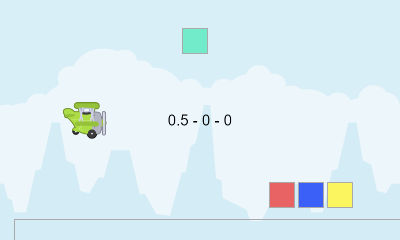
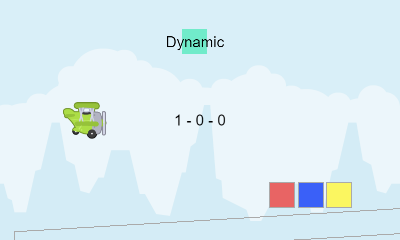
Loop v1.0

diff --git a/loop/engine/GameObject.js b/loop/engine/GameObject.js
@@ -12,7 +12,10 @@ class GameObject {
         for (let key in actor.newProperties) { this[key] = actor[key]; } // add new gameObject properties
         // add audio
         var soundOpt = { volume: actor.volume, loop: actor.loop, pan: actor.pan, start: actor.start }
-        if (actor.sound) this.audio = new Sound(actor.sound, soundOpt);
+        if (actor.sound) {
+            this.audio = new Sound(actor.sound, soundOpt);
+            if (actor.soundOn) this.audio.source.play(this.audio.id);
+        }
         // add container to stage
         this.container = engine.render.stage.addChild(new Container(actor));
         // add rigidbody to world
@@ -84,7 +87,7 @@ class GameObject {
         }
     }
 
-    update(lagOffset) { // integrate render positions !!!! REVISE
+    update(lagOffset) { // integrate render positions
         if (!this.sleeping) {
             this.x = this.x * lagOffset + this.previousState.x * (1 - lagOffset);
             this.y = this.y * lagOffset + this.previousState.y * (1 - lagOffset);
@@ -262,15 +265,54 @@ class GameObject {
     set pan(value) { this.audio.source.stereo(value) };
 
     get loop() { return this.audio.source.loop() }
-    set loop(value) { this.audio.source.loop(value) };
+    set loop(value) { this.audio.source.loop(value); };
+
+    get type() {
+        switch (true) {
+            case this.rigidbody.isDynamic(): return ("Dynamic");
+            case this.rigidbody.isKinematic(): return ("Kinematic");
+            case this.rigidbody.isStatic(): return ("Static");
+        }
+    }
+    set type(value) {
+        switch (value) {
+            case "Dynamic": this.rigidbody.setDynamic(); break;
+            case "Kinematic": this.rigidbody.setKinematic(); break;
+            case "Static": this.rigidbody.setStatic(); break;
+        }
+    }
+
+    get fixedAngle() { return this.rigidbody.isFixedRotation() }
+    set fixedAngle(value) { this.rigidbody.setFixedRotation(value) }
 
     get velocityX() { return (this.rigidbody.getLinearVelocity().x * Physics.pixelsPerMeter) };
-    set velocityX(value) { 
-        this.rigidbody.setLinearVelocity(planck.Vec2(value * Physics.metersPerPixel, this.rigidbody.getLinearVelocity().y)) 
+    set velocityX(value) {
+        this.rigidbody.setLinearVelocity(planck.Vec2(value * Physics.metersPerPixel, this.rigidbody.getLinearVelocity().y))
     };
 
     get velocityY() { return this.rigidbody.getLinearVelocity().y * Physics.metersPerPixel };
-    set velocityY(value) { 
-        this.rigidbody.setLinearVelocity(planck.Vec2(this.rigidbody.getLinearVelocity().x, value * Physics.metersPerPixel)) 
+    set velocityY(value) {
+        this.rigidbody.setLinearVelocity(planck.Vec2(this.rigidbody.getLinearVelocity().x, value * Physics.metersPerPixel))
     };
+
+    get angularVelocity() { return this.rigidbody.getAngularVelocity() };
+    set angularVelocity(value) {
+        this.rigidbody.setAngularVelocity(value);
+    };
+
+    get density() { return this.rigidbody.getFixtureList().getDensity() };
+    set density(value) { this.rigidbody.getFixtureList().setDensity(value) };
+
+    get friction() { return this.rigidbody.getFixtureList().getFriction() };
+    set friction(value) { this.rigidbody.getFixtureList().setFriction(value) };
+
+    get restitution() { return this.rigidbody.getFixtureList().getRestitution() };
+    set restitution(value) { this.rigidbody.getFixtureList().setRestitution(value) };
+
+    get dampingLinear() { return this.rigidbody.getLinearDamping() };
+    set dampingLinear(value) { this.rigidbody.setLinearDamping(value) };
+
+    get dampingAngular() { return this.rigidbody.setAngularDamping() };
+    set dampingAngular(value) { this.rigidbody.getAngularDamping(value) };
+
 }

diff --git a/loop/engine/Engine.js b/loop/engine/Engine.js
@@ -5,12 +5,12 @@ class Engine {
         this.ffps = 100;
         this.currentTime = this.accumulator = this.frameTime = 0.0;
         this.debug = gameModel.debug;
-        this.changeScene = this.stopPhysics = this.stopLogic = this.stopSounds = false;
+        this.changeScene = false;
         // Create a new object to acces by name to scenes on load and in scope
         this.sceneList = new Object();
         gameModel.sceneList.forEach(scene => { this.sceneList[scene.name] = scene; });
         // Init gameLevel
-        this.gameLevel = new GameLevel(this, gameModel);
+        this.gameLevel = new GameLevel(this);
         this.gameLevel.deltaTime = 1 / this.ffps;
         this.gameLevel.currentScene = gameModel.sceneList[0].name;
         // init audio engine
@@ -39,7 +39,7 @@ class Engine {
     }
 
     loadScene(scene) {
-        this.resume(); // disables the stop of the different engines
+        // this.resume(); // Disables the stop of the different engines
         // Create new data structures
         this.gameObjects = new Map();
         this.scope = new Object({ "Game": this.gameLevel, "Engine": this });
@@ -49,28 +49,28 @@ class Engine {
         this.input = new Input(this.gameModel, this.render.stage);
         this.physics = new Physics(this.gameModel, this.gameObjects);
         // Create gameObjects
-        this.zIndex = 0;
+        var zIndex = 0;
         this.sceneList[scene].actorList.forEach(actor => {
-            actor.zIndex = this.zIndex;
+            actor.zIndex = zIndex;
             var gameObject = new GameObject(this, actor);
             this.gameObjects.set(actor.name, gameObject);
             this.scope[actor.name] = gameObject;
-            this.zIndex++;
+            zIndex++;
         });
         this.gameLevel.currentScene = scene;
     }
 
     // scene actions
-    goTo(scene) {
-        this.changeScene = true; this.goToScene = scene.name;
-    }
+    goTo(scene) { this.changeScene = true; this.goToScene = scene.name; }
 
-    pause(stopPhysics, stopLogic, stopSounds) {
-        this.stopPhysics = stopPhysics; this.stopLogic = stopLogic; this.stopSounds = stopSounds;
+    pause(physics, logic, sounds) {
+        this.gameLevel.physicsOn = false;
+        this.gameLevel.logicOn = false;
+        this.gameLevel.objectSoundsOn = false; 
     }
 
     resume() {
-        this.stopPhysics = this.stopLogic = this.stopSounds = false;
+        this.gameLevel.physicsOn = this.gameLevel.logicOn = this.gameLevel.objectSoundsOn = true;
     }
 
     // actions

diff --git a/loop/engine/GameLevel.js b/loop/engine/GameLevel.js
@@ -1,9 +1,12 @@
 class GameLevel {
 
-    constructor(engine, gameModel) {
+    constructor(engine) {
         this.engine = engine;
-        this.gameModel = gameModel;
-        for (let key in gameModel.allProperties) { this[key] = gameModel.allProperties[key]; }
+        for (let key in engine.gameModel.allProperties) {
+            this[key] = engine.gameModel.allProperties[key];
+        }
+        this.objectSoundsOn = true; // physicsOn is defined in the gameModel
+        this.logicOn = true;
     }
 
     get displayWidth() { return this.engine.render.renderer.width; }
@@ -26,13 +29,6 @@ class GameLevel {
 
     get backgroundColor() { return this.engine.render.renderer.backgroundColor }
     set backgroundColor(value) { if (this.engine.render) this.engine.render.renderer.backgroundColor = PIXI.utils.string2hex(value); }
-
-    get soundOn() { return this.engine.aural.music.playing() }
-    set soundOn(value) {
-        if (this.engine.aural)
-            (value) ? this.engine.aural.music.source.play(this.engine.aural.music.id) :
-                this.engine.aural.music.source.stop(this.engine.aural.music.id)
-    }
 
     get soundtrack() { return this.engine.music.source._src }
     set soundtrack(value) {

diff --git a/loop/engine/Rule.js b/loop/engine/Rule.js
@@ -31,10 +31,10 @@ class Rule {
     }
 
     add(params) { // pause
-        params.stopPhysics = true;
-        params.stopLogic = true;
-        params.stopSounds = true;
-        return ("Engine.pause(" + params.stopPhysics + "," + params.stopLogic + "," + params.stopSounds + ")");
+        params.physics = true;
+        params.logic = true;
+        params.sounds = true;
+        return ("Engine.pause(" + params.physics + "," + params.logic + "," + params.sounds + ")");
     }
 
     remove(params) { // resume
@@ -45,7 +45,7 @@ class Rule {
     edit(params) {
         var position = params.property.indexOf(".") + 1;
         var property = params.property.substring(position);
-        var specialProperties = ["color", "backgroundColor", "fill", "image", "sound", "soundtrack", "font", "style", "align"];
+        var specialProperties = ["type","color", "backgroundColor", "fill", "image", "sound", "soundtrack", "font", "style", "align"];
         if (specialProperties.includes(property) && params.value[0] != "'") params.value = "'" + params.value + "'"; // to add quotes if it doesn't have them
         return (params.property + " = " + params.value);
     }

diff --git a/loop/engine/Aural.js b/loop/engine/Aural.js
@@ -4,11 +4,10 @@ class Aural {
         var soundOpt = { volume: gameModel.volume, loop: gameModel.loop, pan: gameModel.pan, start: gameModel.start }
         if (gameModel.soundtrack) this.music = new Sound(gameModel.soundtrack,soundOpt);
         if (gameModel.soundOn) this.music.source.play(this.music.id);
-        console.log(this.music,this.music.source.loop());
     }
     
     play(engine) {
-        if (!engine.stopSounds) engine.gameObjects.forEach(gameObject => { gameObject.play() });
+        if (engine.gameLevel.objectSoundsOn) engine.gameObjects.forEach(gameObject => { gameObject.play() });
         else engine.gameObjects.forEach(gameObject => { gameObject.pause() });
     }
 }

diff --git a/loop/core/Game.js b/loop/core/Game.js
@@ -32,7 +32,7 @@ class Game {
             // Sound
             soundOn: this.soundOn || false, soundtrack: this.soundtrack || "", volume: this.volume || 1, start: this.start || 0, pan: this.pan || 0, loop: this.loop || false,
             // Physics
-            physicsOn: this.physicsOn || true, gravityX: this.gravityX || 0, gravityY: this.gravityY || 0
+            physicsOn: this.physicsOn || false, gravityX: this.gravityX || 0, gravityY: this.gravityY || 0
         }
         if (obj.cameraZoom == undefined) obj.cameraZoom = 1;
         return (obj);

diff --git a/loop/engine/Body.js b/loop/engine/Body.js
@@ -7,7 +7,7 @@ class Body {
             angle: actor.angle * Math.PI / 180,
             linearVelocity: { x: actor.velocityX * Physics.metersPerPixel, y: actor.velocityY * Physics.metersPerPixel},
             fixedRotation: actor.fixedAngle, angularVelocity: actor.angularVelocity,
-            angularDamping: actor.dampingLinear, linearDamping: actor.dampingAngular,
+            linearDamping: actor.dampingLinear, angularDamping: actor.dampingAngular,
             userData: { name: actor.name, tags: actor.tags }
         }
         this.fixtureDef = {

diff --git a/loop/engine/Logic.js b/loop/engine/Logic.js
@@ -2,7 +2,7 @@ class Logic {
 
     fixedUpdate(engine, dt, t, frameTime) { // time in miliseconds
         engine.gameObjects.forEach(gameObject => { 
-            if (!engine.stopLogic) gameObject.fixedUpdate(dt, engine.scope); 
+            if (engine.gameLevel.logicOn) gameObject.fixedUpdate(dt, engine.scope); 
             else if (gameObject.resume) gameObject.fixedUpdate(dt, engine.scope);
         })
         if (engine.changeScene) { // the change of scene occurs after evaluating all logic

diff --git a/loop/engine/Physics.js b/loop/engine/Physics.js
@@ -14,7 +14,7 @@ class Physics {
     }
 
     fixedStep(engine, dt) {
-        if (!engine.stopPhysics){
+        if (engine.gameLevel.physicsOn){
             this.world.step(dt);
             engine.gameObjects.forEach(gameObject => { gameObject.fixedStep() });
         }

diff --git a/loop/engine/Sound.js b/loop/engine/Sound.js
@@ -11,7 +11,6 @@ class Sound {
             this.source.stereo(options.pan);
             this.source.seek(options.start);
         }
-        console.log(this.source.loop());
         return (this);
     }
 }
